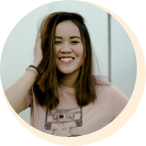
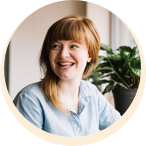
home page markup, added image to files

diff --git a/index.html b/index.html
@@ -26,7 +26,54 @@
             </nav>
         </div>
     </header>
+    <section class="cta-top">
+        <div class="cta">
+            <img src="img/hero.svg" alt="Illustration of girl watering plants">
+            <div class="cta-text">
+                <h1>Never forget to water your plants again.</h1>
+                <button>Get started for free</button>
+            </div>
+        </div>
+        <div class="features">
+            <h2>How it works</h2>
+            <div class="feature-boxes">
+                <div class="feature-box">
+                    <img src="img/icon.svg" alt="Illustration of a girl touching a large plant">
+                    <p>Lorem ipsum dolor sit amet consectetur adipisicing elit. Cum recusandae nihil blanditiis eos hic nam, necessitatibus illum perspiciatis. Quam, voluptas itaque. Fuga incidunt doloremque quam maiores mollitia doloribus, ut nulla!</p>
+                </div>
+                <div>
+                    <img src="img/icon.svg" alt="Illustration of a girl touching a large plant">
+                    <p>Lorem ipsum dolor sit amet consectetur adipisicing elit. Cum recusandae nihil blanditiis eos hic nam, necessitatibus illum perspiciatis. Quam, voluptas itaque. Fuga incidunt doloremque quam maiores mollitia doloribus, ut nulla!</p>
+                </div>
+                <div>
+                    <img src="img/icon.svg" alt="Illustration of a girl touching a large plant">
+                    <p>Lorem ipsum dolor sit amet consectetur adipisicing elit. Cum recusandae nihil blanditiis eos hic nam, necessitatibus illum perspiciatis. Quam, voluptas itaque. Fuga incidunt doloremque quam maiores mollitia doloribus, ut nulla!</p>
+                </div>
+            </div>
+        </div>
+    </section>
 
+    <section class="testimonials">
+        <h2>What they're saying</h2>
+        <div class="quotes">
+            <div class="quote-box qb1">
+                <p>Lorem ipsum dolor sit amet consectetur adipisicing elit. Porro, sint soluta ipsum veniam cumque doloribus quod iure nostrum nemo modi numquam consequatur delectus voluptatem, eum vel quos quibusdam, dignissimos iusto.</p>
+                <img src="img/testimonial1.png" alt="Smiling man">
+            </div>
+            <div class="quote-box qb2">
+                <p>Lorem ipsum dolor sit amet consectetur, adipisicing elit. Explicabo amet nisi recusandae et quam eaque neque cupiditate, iusto deleniti, a tempore numquam. Eaque, amet ad officiis quo sequi accusantium neque?</p>
+                <img src="img/testimonial2.png" alt="Smiling woman">
+            </div>
+            <div class="quote-box qb3">
+                <p>Lorem, ipsum dolor sit amet consectetur adipisicing elit. Tempora, odio! Itaque quisquam eos, ratione, accusantium repellendus magni fugit et cum dicta doloremque animi? Porro deleniti quaerat aspernatur alias sint quos?</p>
+                <img src="img/testimonial3.png" alt="Smiling woman">
+            </div>
+        </div>
+    </section>
+    <section class="cta-bottom">
+        <h2>Make plant care simple and stress-free.</h2>
+        <button>Try it for free!</button>
+    </section>
     <footer>
         <div class="contact">
             <address>
